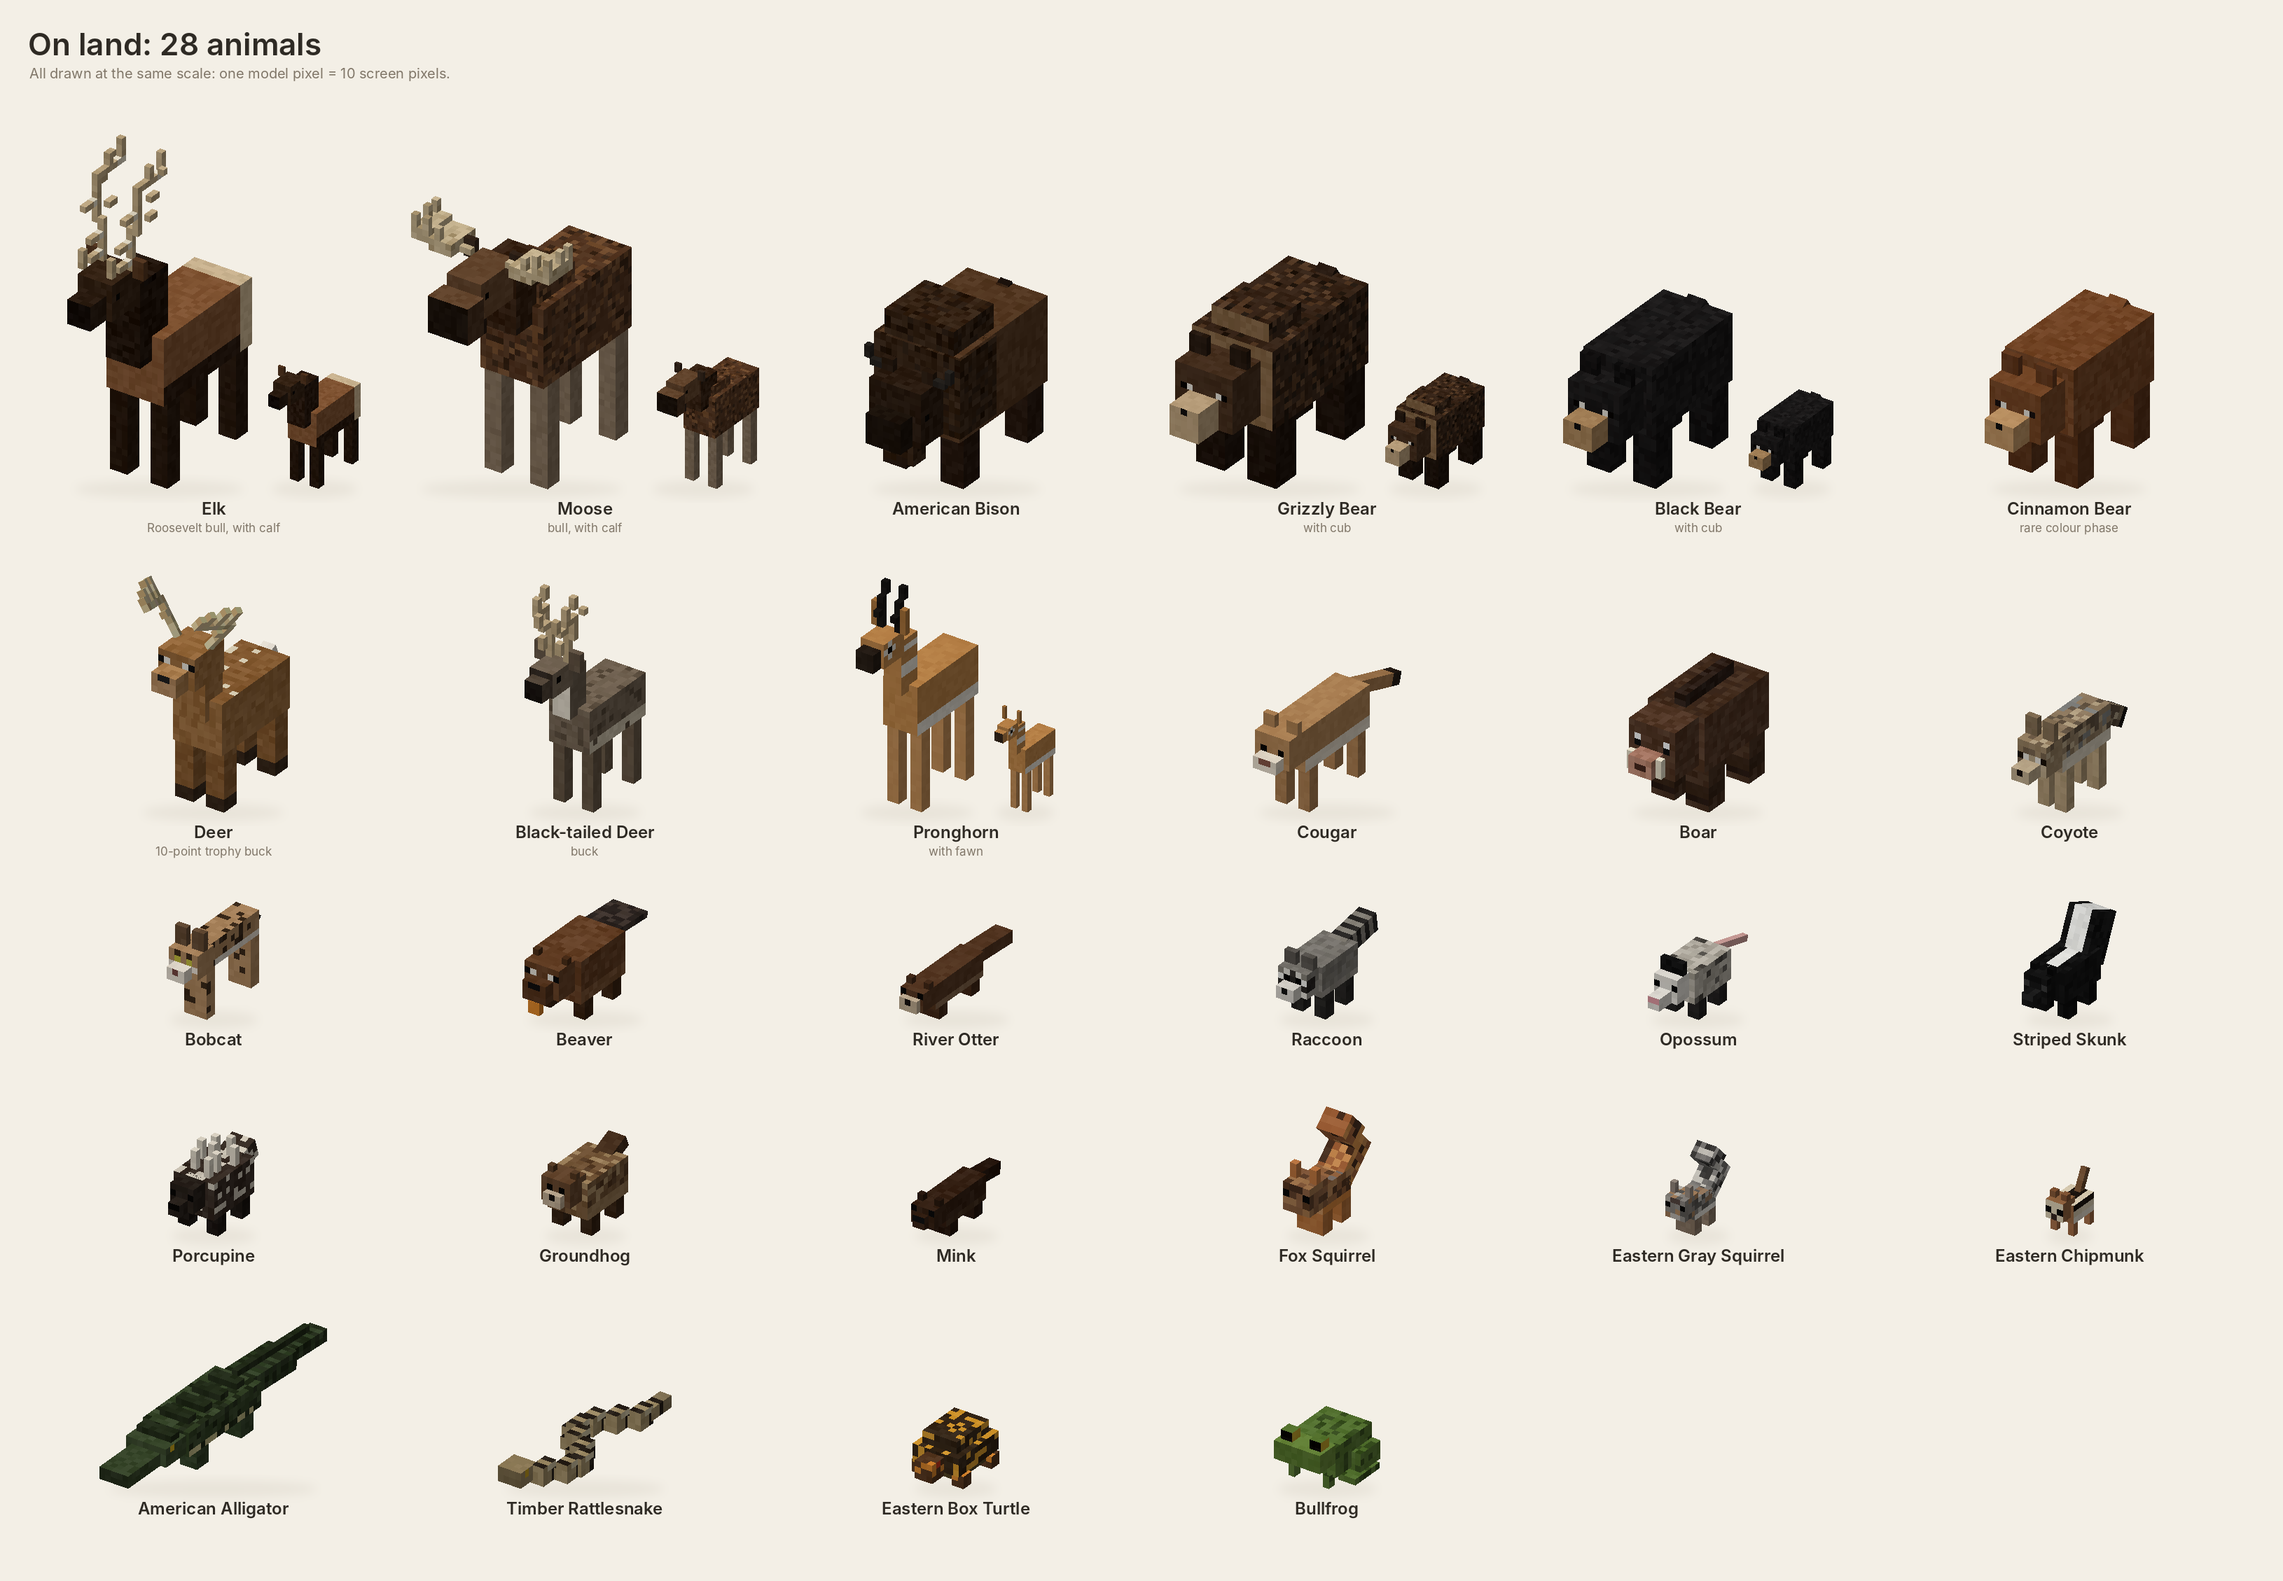
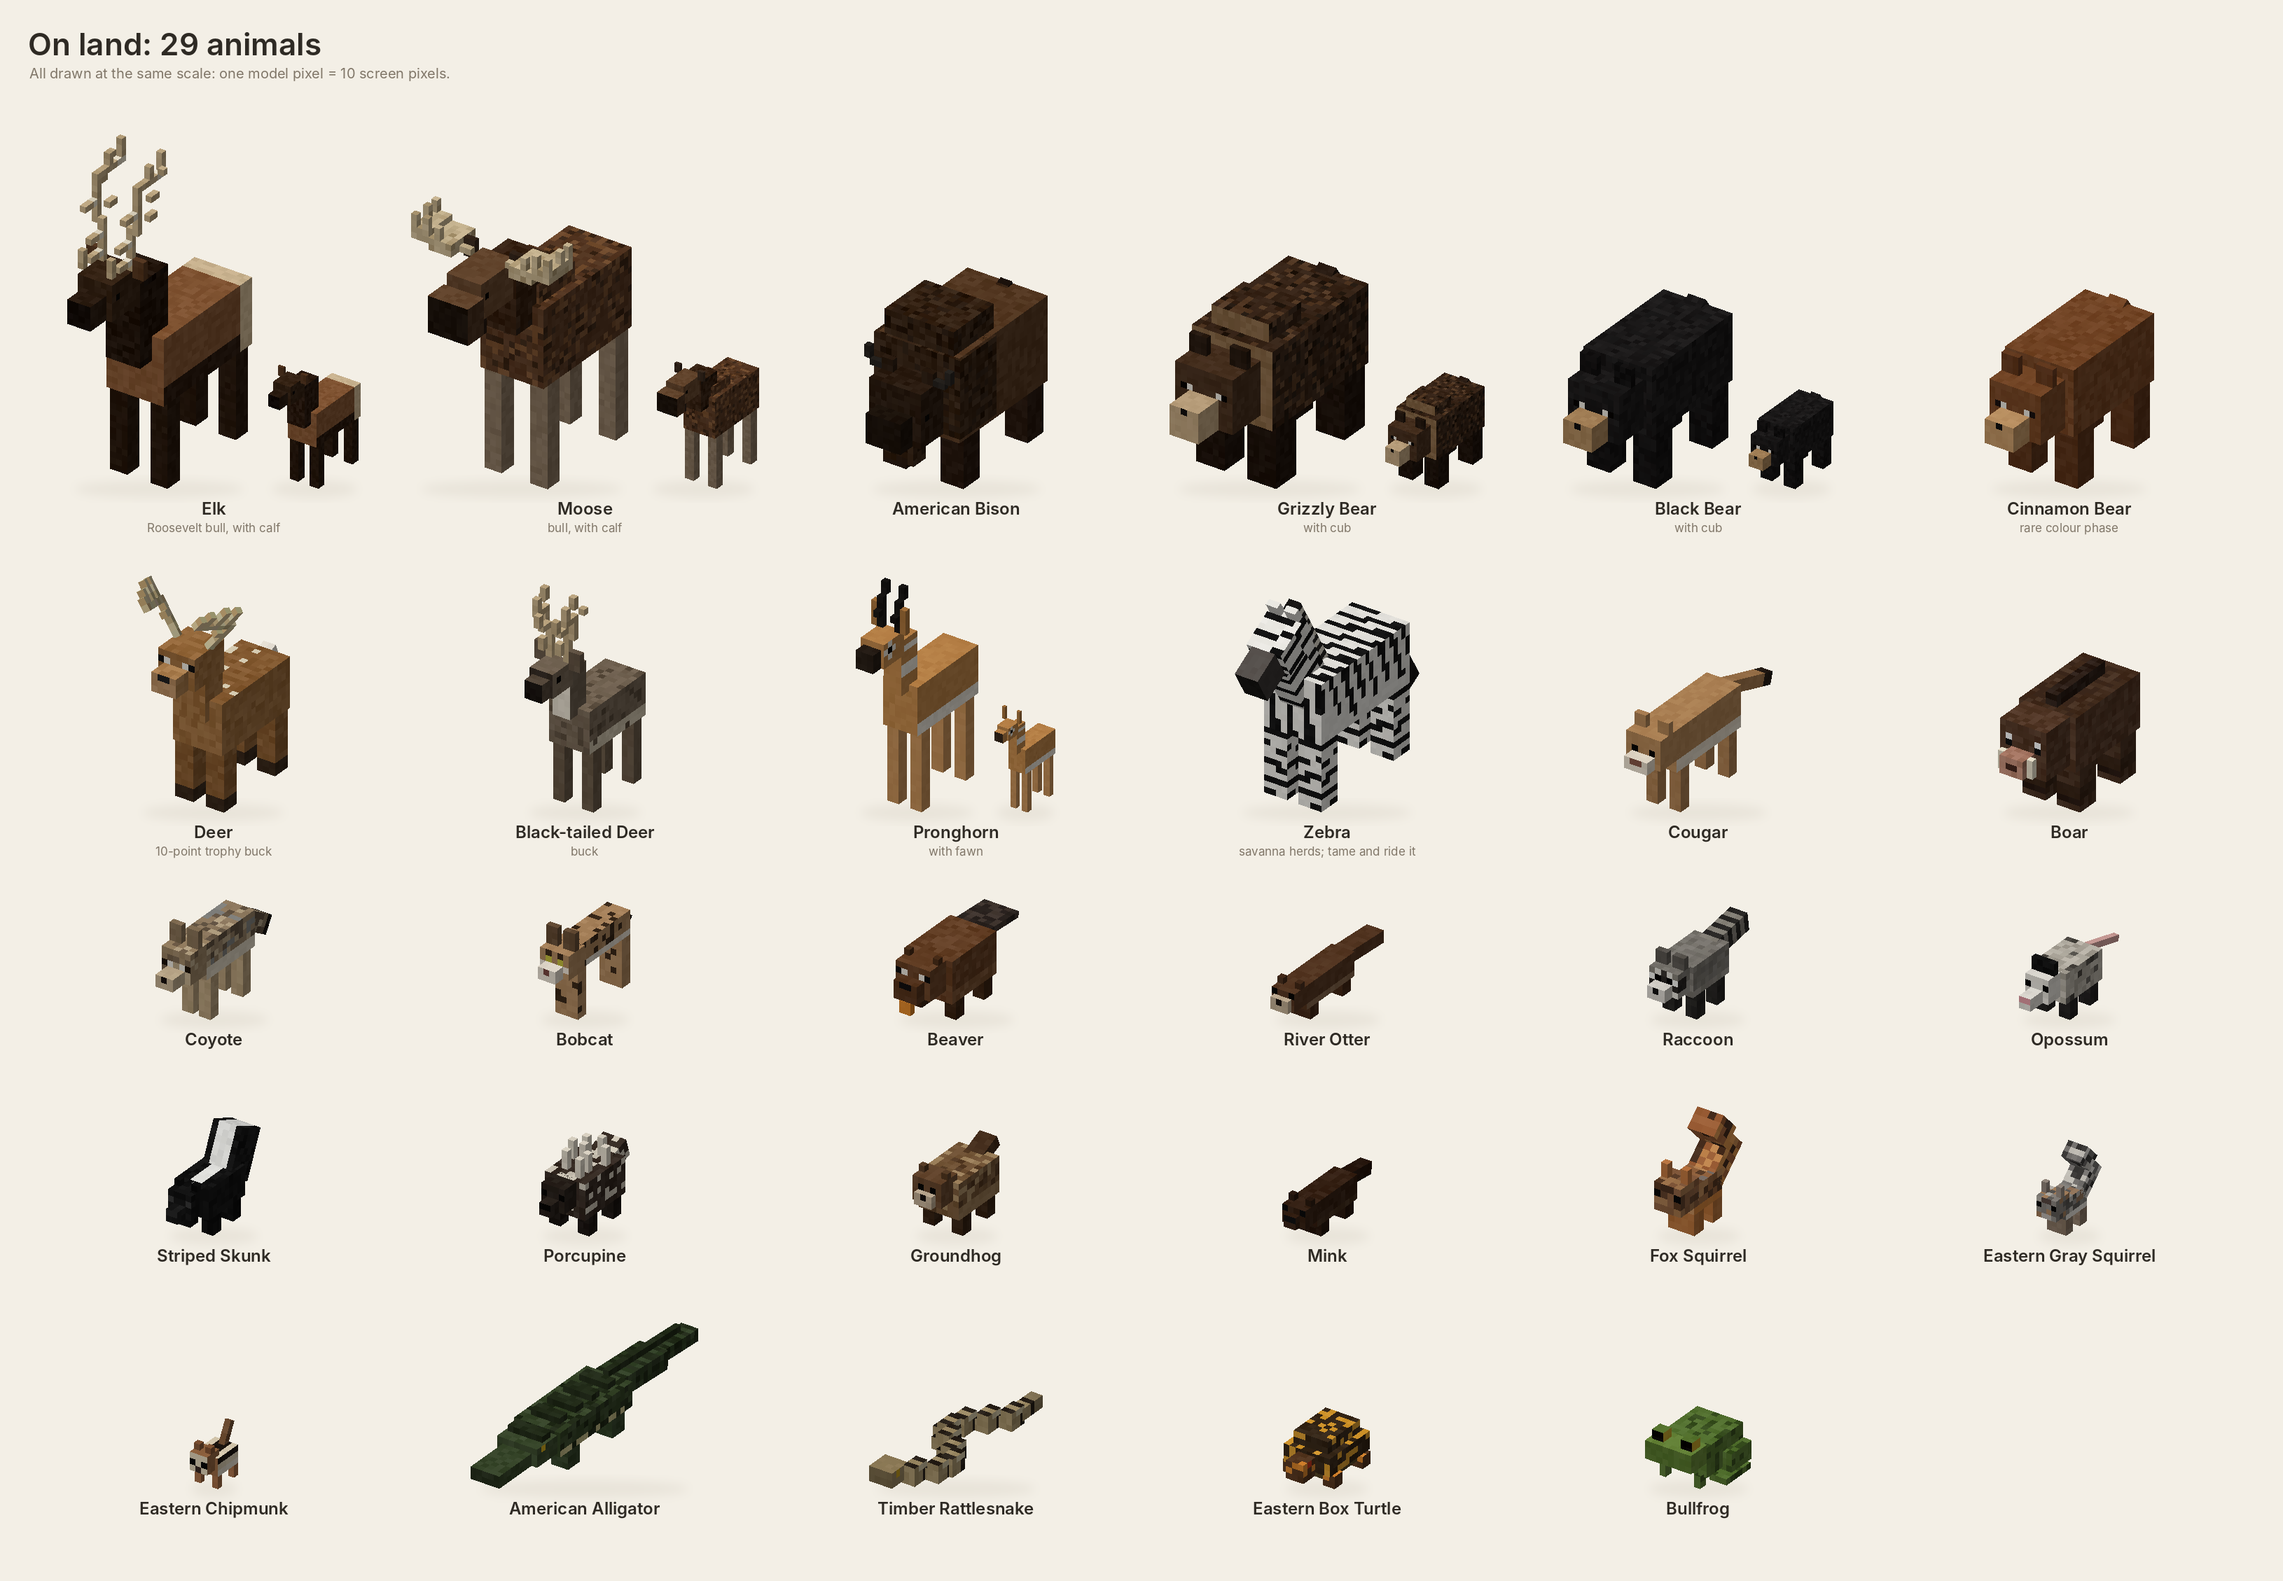
Zebra in the field guide, Ender Terminal on the front page, 4-per-bundle cap; roadmap: classic glowstone portal, more dimensions
Butterflies now fill a bundle at 4, like every other critter. The field-guide renderer
learns vanilla's horse model, so the zebra is in the land chart. Roadmap: mudlings 4 per
bundle; the sky dimension uses the classic glowstone portal lit with water; six more
dimension ideas.

Claude-Session: https://claude.ai/code/session_01M5QtgiQGYPBXfdb72XCowG

diff --git a/tools/render_iso.py b/tools/render_iso.py
@@ -16,7 +16,14 @@ LIGHT = np.array([-0.35, 0.85, 0.4]); LIGHT /= np.linalg.norm(LIGHT)
 def B(uv, frm, size, mirror=False): return {"uv": uv, "from": frm, "size": size, "mirror": mirror}
 def Pt(pivot, boxes, rot=(0, 0, 0)): return {"pivot": pivot, "rot": rot, "boxes": boxes}
 
-HAND = {  # Java models (BoarModel, DeerModel, DuckModel, TurkeyModel)
+HAND = {  # Java models (BoarModel, DeerModel, DuckModel, TurkeyModel; vanilla's horse, for the zebra)
+    "horse": (64, 64, [
+        Pt([-4, 14, -10], [B([48, 21], [-1, -1.01, -1.9], [4, 11, 4])]), Pt([4, 14, -10], [B([48, 21], [-3, -1.01, -1.9], [4, 11, 4], True)]),
+        Pt([-4, 14, 7], [B([48, 21], [-1, -1.01, -1], [4, 11, 4])]), Pt([4, 14, 7], [B([48, 21], [-3, -1.01, -1], [4, 11, 4], True)]),
+        Pt([0, 11, 5], [B([0, 32], [-5, -8, -17], [10, 10, 22])]),
+        Pt([0, 6, 7], [B([42, 36], [-1.5, 0, 0], [3, 14, 4])], (0.5236, 0, 0)),
+        Pt([0, 4, -12], [B([0, 35], [-2.05, -6, -2], [4, 12, 7]), B([0, 13], [-3, -11, -2], [6, 5, 7]), B([19, 16], [-2.55, -13, 4], [2, 3, 1]),
+                         B([19, 16], [0.55, -13, 4], [2, 3, 1]), B([56, 36], [-1, -11, 5.01], [2, 16, 2]), B([0, 25], [-2, -11, -7], [4, 5, 5])], (0.5236, 0, 0))]),
     "boar": (64, 64, [
         Pt([0, 12, -8], [B([0, 0], [-4, -4, -6], [8, 8, 6]), B([28, 0], [-2, 0, -9], [4, 3, 3]),
                          B([42, 0], [-3, 0, -8], [1, 3, 1]), B([42, 0], [2, 0, -8], [1, 3, 1], True)]),
@@ -154,6 +161,7 @@ LAND = [
     ("Deer", "10-point trophy buck", "deer:4", "deer", 1.06, None),
     ("Black-tailed Deer", "buck", "black_tailed_deer", "black_tailed_deer_buck", 1.0, None),
     ("Pronghorn", "with fawn", "pronghorn", "pronghorn", 1.0, ("pronghorn_fawn", 0.5)),
+    ("Zebra", "savanna herds; tame and ride it", "horse", "zebra", 1.0, None),
     ("Cougar", "", "cougar", "cougar", 1.0, None),
     ("Boar", "", "boar", "boar", 1.0, None),
     ("Coyote", "", "coyote", "coyote", 1.0, None),

diff --git a/src/main/java/com/ryancraft/entity/Butterfly.java b/src/main/java/com/ryancraft/entity/Butterfly.java
@@ -41,7 +41,7 @@ public class Butterfly extends SmallFlyer implements Baggable {
         return this.random.nextInt(SPECIES.length);
     }
 
-    @Override public int bagCapacity() { return 8; }
+    @Override public int bagCapacity() { return 4; }
     @Override public CageKind cageKind() { return CageKind.BIRD; }
     @Override public boolean isFood(ItemStack s) { return s.is(net.minecraft.tags.ItemTags.FLOWERS); }
     @Override public AgeableMob getBreedOffspring(ServerLevel l, AgeableMob p) { return null; }

diff --git a/ROADMAP.md b/ROADMAP.md
@@ -71,14 +71,14 @@ Our own take on the old Clay Soldiers idea, and the main "fight your friends" ga
 - Rare little squads of **mudlings** live in the wild, each biome with its own kind, made from that biome's stuff.
 - **Rarity: relatively rare, never teeming, never unobtainable.** Mudlings only live at their camps (they don't
   spawn freely like animals). Aim for roughly one camp every 400-600 blocks of a given biome, generated as a small
-  world structure, with 3-6 mudlings per camp. A camp doesn't refill once it's emptied, so filling a bundle of 16
+  world structure, with 3-6 mudlings per camp. A camp doesn't refill once it's emptied, so building a squad
   means finding a few camps. Rare colour variants are about 1 in 20 mudlings.
 - They patrol a tiny camp (a pebble fort, a twig lean-to) and scatter if you charge in, so sneaking and camo help.
 - Rare colour variants (gilded, mossy, charred) to collect.
 
 **Collecting**
-- Scoop them up with a **vanilla bundle**: right-click a mudling and it goes in. A bundle holds **up to 16 mudlings**
-  (mudling items stack to 16, which makes 16 fill a bundle exactly). One full bundle = one squad of one type.
+- Scoop them up with a **vanilla bundle**: right-click a mudling and it goes in. A bundle holds **up to 4 mudlings**,
+  the same as critters (no bundle holds more than 4 creatures). A squad is a few bundles' worth.
 - Empty the bundle to deploy them; they hop out and form up.
 
 **Biome mudlings, their style, and what they crumble into**
@@ -191,15 +191,36 @@ more) that run on the same engine pulse as everything else: see [docs/engineerin
 
 ## A sky dimension (our own, not the Aether)
 A dimension of floating islands above the clouds, in the spirit of the old Aether mod but with its own blocks,
-creatures and way in (no glowstone portal, holystone, skyroot, moas or aerwhales).
-- **Getting there**: a portal of our own, e.g. a frame that has to be charged by a lightning strike, or riding a
-  strong updraft from a mountain peak.
+creatures (no holystone, skyroot, moas or aerwhales), reached through the classic glowstone portal.
+- **Getting there**: the classic Aether way: a frame of glowstone, lit by pouring a bucket of water into it.
 - **The land**: floating islands of grassy meadow, cloud blocks you can stand on (some bouncy, some that drop you),
   updraft columns that carry you between islands, waterfalls pouring off the edges into nothing.
 - **Great winged creatures**: big gliding sky rays that drift in flocks, huge soaring birds with nests on the high
   islands, maybe a rideable one you have to raise from an egg.
 - **Its own materials**: sky-only wood and stone, a light ore for gear suited to falling and gliding.
 - **Ambience**: high winds, the creak of floating rock, distant calls of the big birds.
+
+## More dimensions (ideas)
+Each one is reached through a portal built from vanilla blocks, has its own creatures and materials, and gives
+something back to the overworld, so it's worth the trip. All in the same vanilla-plus look.
+- **The Twilight Woods** (Twilight Forest in spirit, our own take): a forest stuck at dusk, with giant old-growth
+  versions of our eastern trees, fireflies everywhere, owls and great elk, and hollow hills to dig into. You get
+  there by stepping into a ring of flowers and mushrooms under a full moon. Brings back ancient seeds and giant wood.
+- **The Far Lands**: a nostalgia world that generates like Alpha and Beta did, with overhangs, floating chunks, a
+  cobblestone-and-mossy sky, and the old Far Lands wall at the edge. You get there through a portal framed in mossy
+  cobblestone and bookshelves. Brings back old blocks like the nether reactor core, the glowing obsidian and the cyan rose.
+- **The Frost Reach**: a frozen glacial world under an aurora, with mammoths (the elephants' woolly cousins),
+  ice caves, frozen shipwrecks and a slow, pale sun. You get there through a portal of packed and blue ice, lit by
+  powdered snow. Brings back mammoth wool, glacial blue ice and old frozen loot.
+- **The Drowned Deep**: an ocean dimension with no surface, just kelp forests, sunken towns, whales and air
+  pockets you have to find. You get there through a conduit set into a prismarine ring. Brings back pearls,
+  sea-glass and drowned-town relics. Breathing gear and lead-weighted boots matter.
+- **The Hollow Moon** (an End neighbour): low gravity, pale dust, chorus groves, ruined shulker towers and slow
+  meteor showers. You get there by throwing an eye of ender into a ring of end rods at night. Brings back moon dust
+  (a light ore for gliding gear) and shulker parts.
+- **Dreams**: sleep in a special bed and wake up in a strange, shifting dream world (floating furniture, bright
+  colours, odd gravity) for one night; wake up in your bed at dawn with whatever you carried out. A nightmare
+  version for anyone who sleeps hungry or thirsty.
 
 ## Ores and the world underground (very Tekkit)
 - **Salt**, found in **salt caves**

diff --git a/README.md b/README.md
@@ -114,6 +114,8 @@ Tekkit-style transport that feels vanilla. You can watch items ride through the 
 
 ![Pipes, engines and the Ender Terminal](docs/pipes_engines.jpg)
 
+![The Ender Terminal and its screen](docs/ender_terminal.jpg)
+
 ![Tanks and pumps](docs/tanks_pumps.png)
 
 ## The 1.2.5 feel
